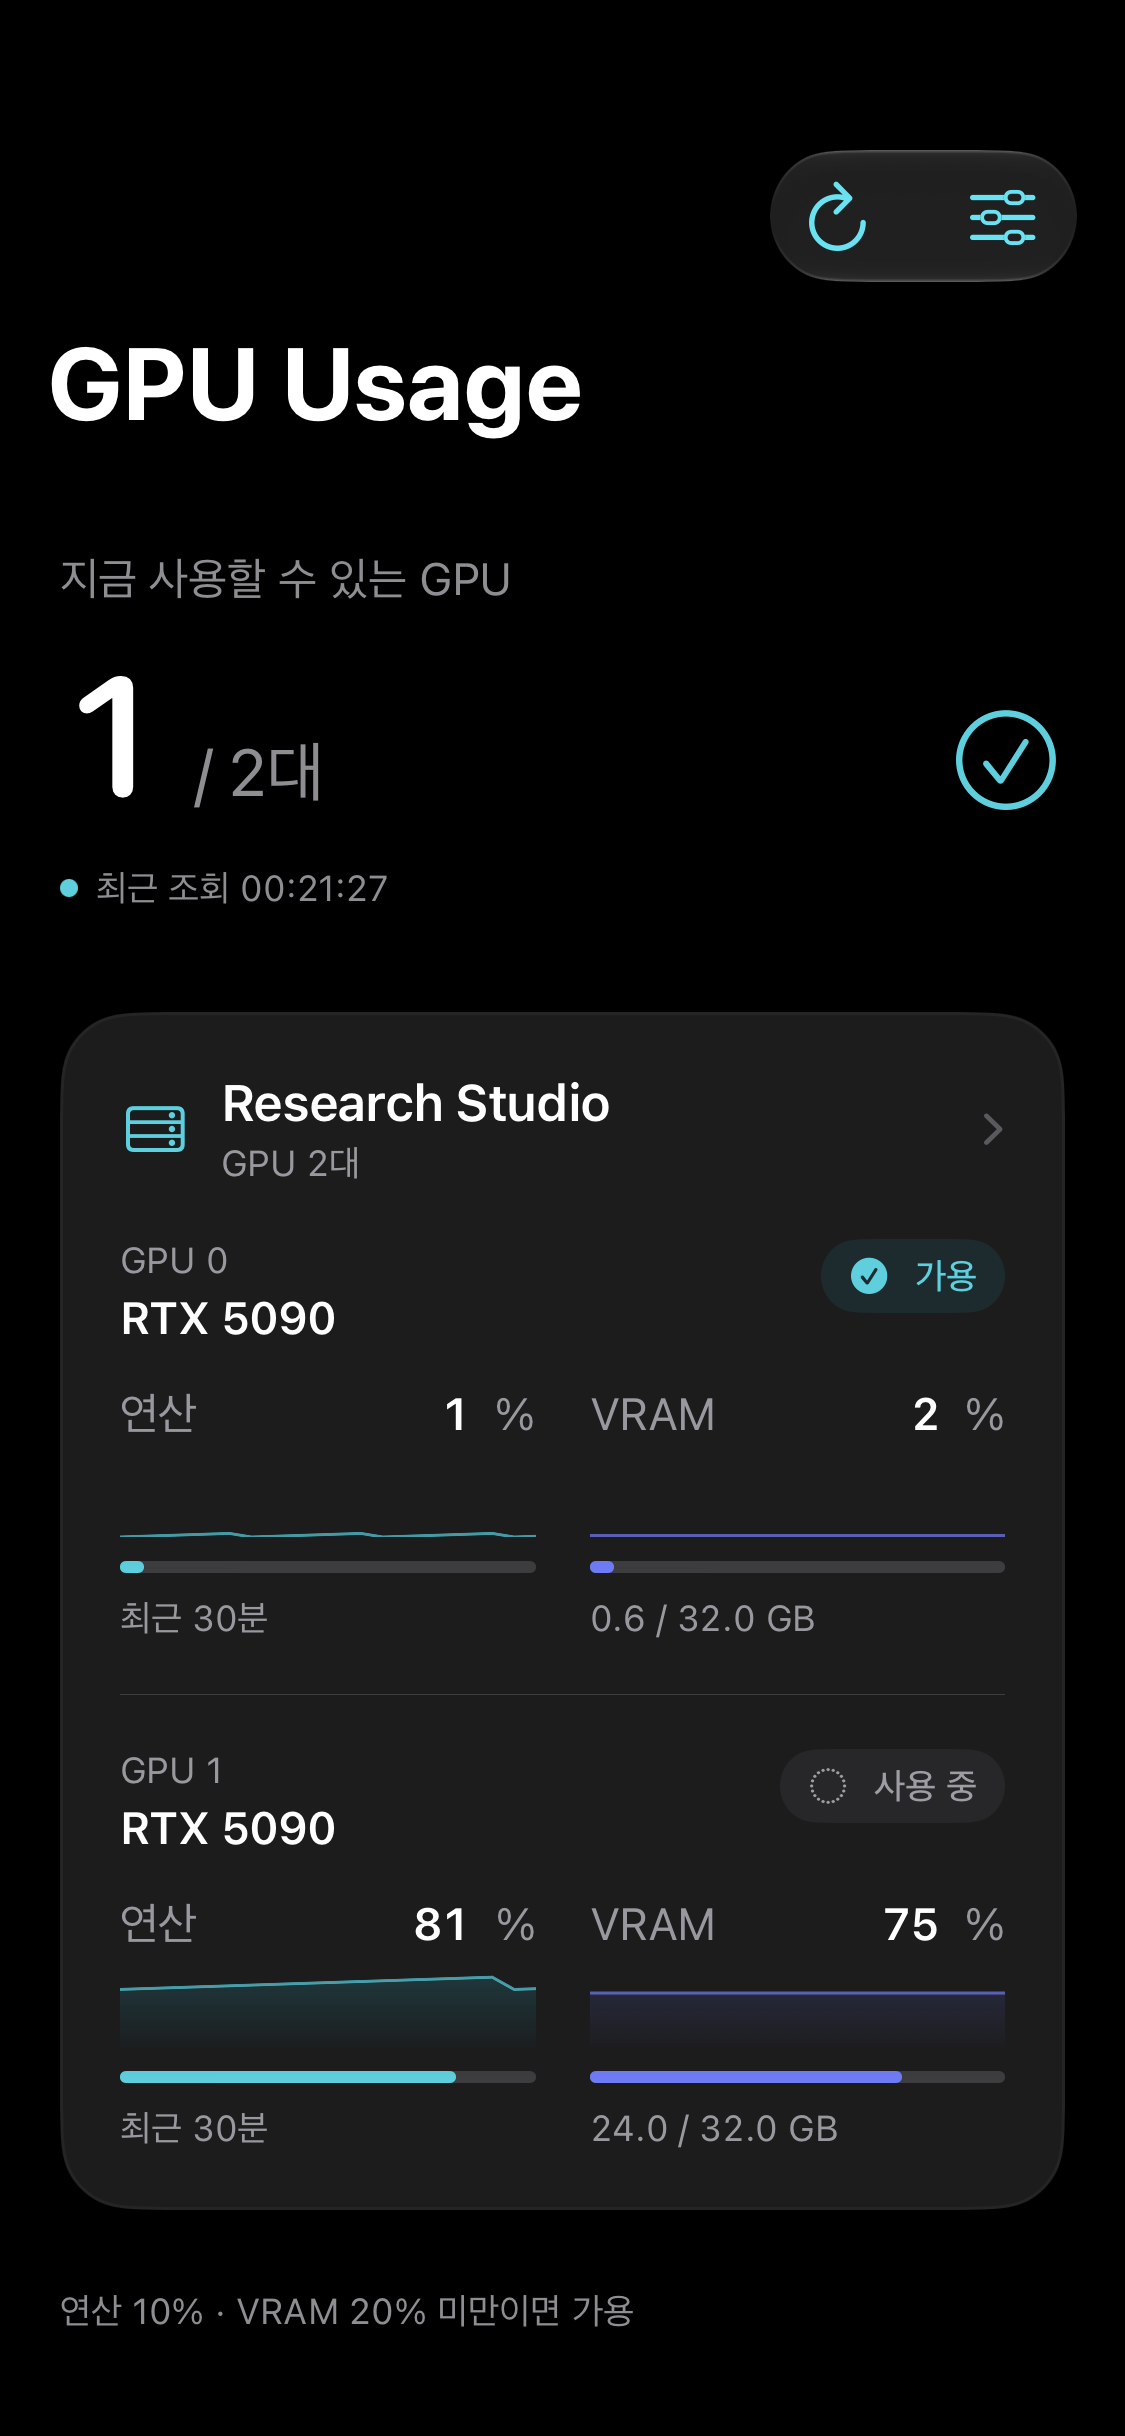
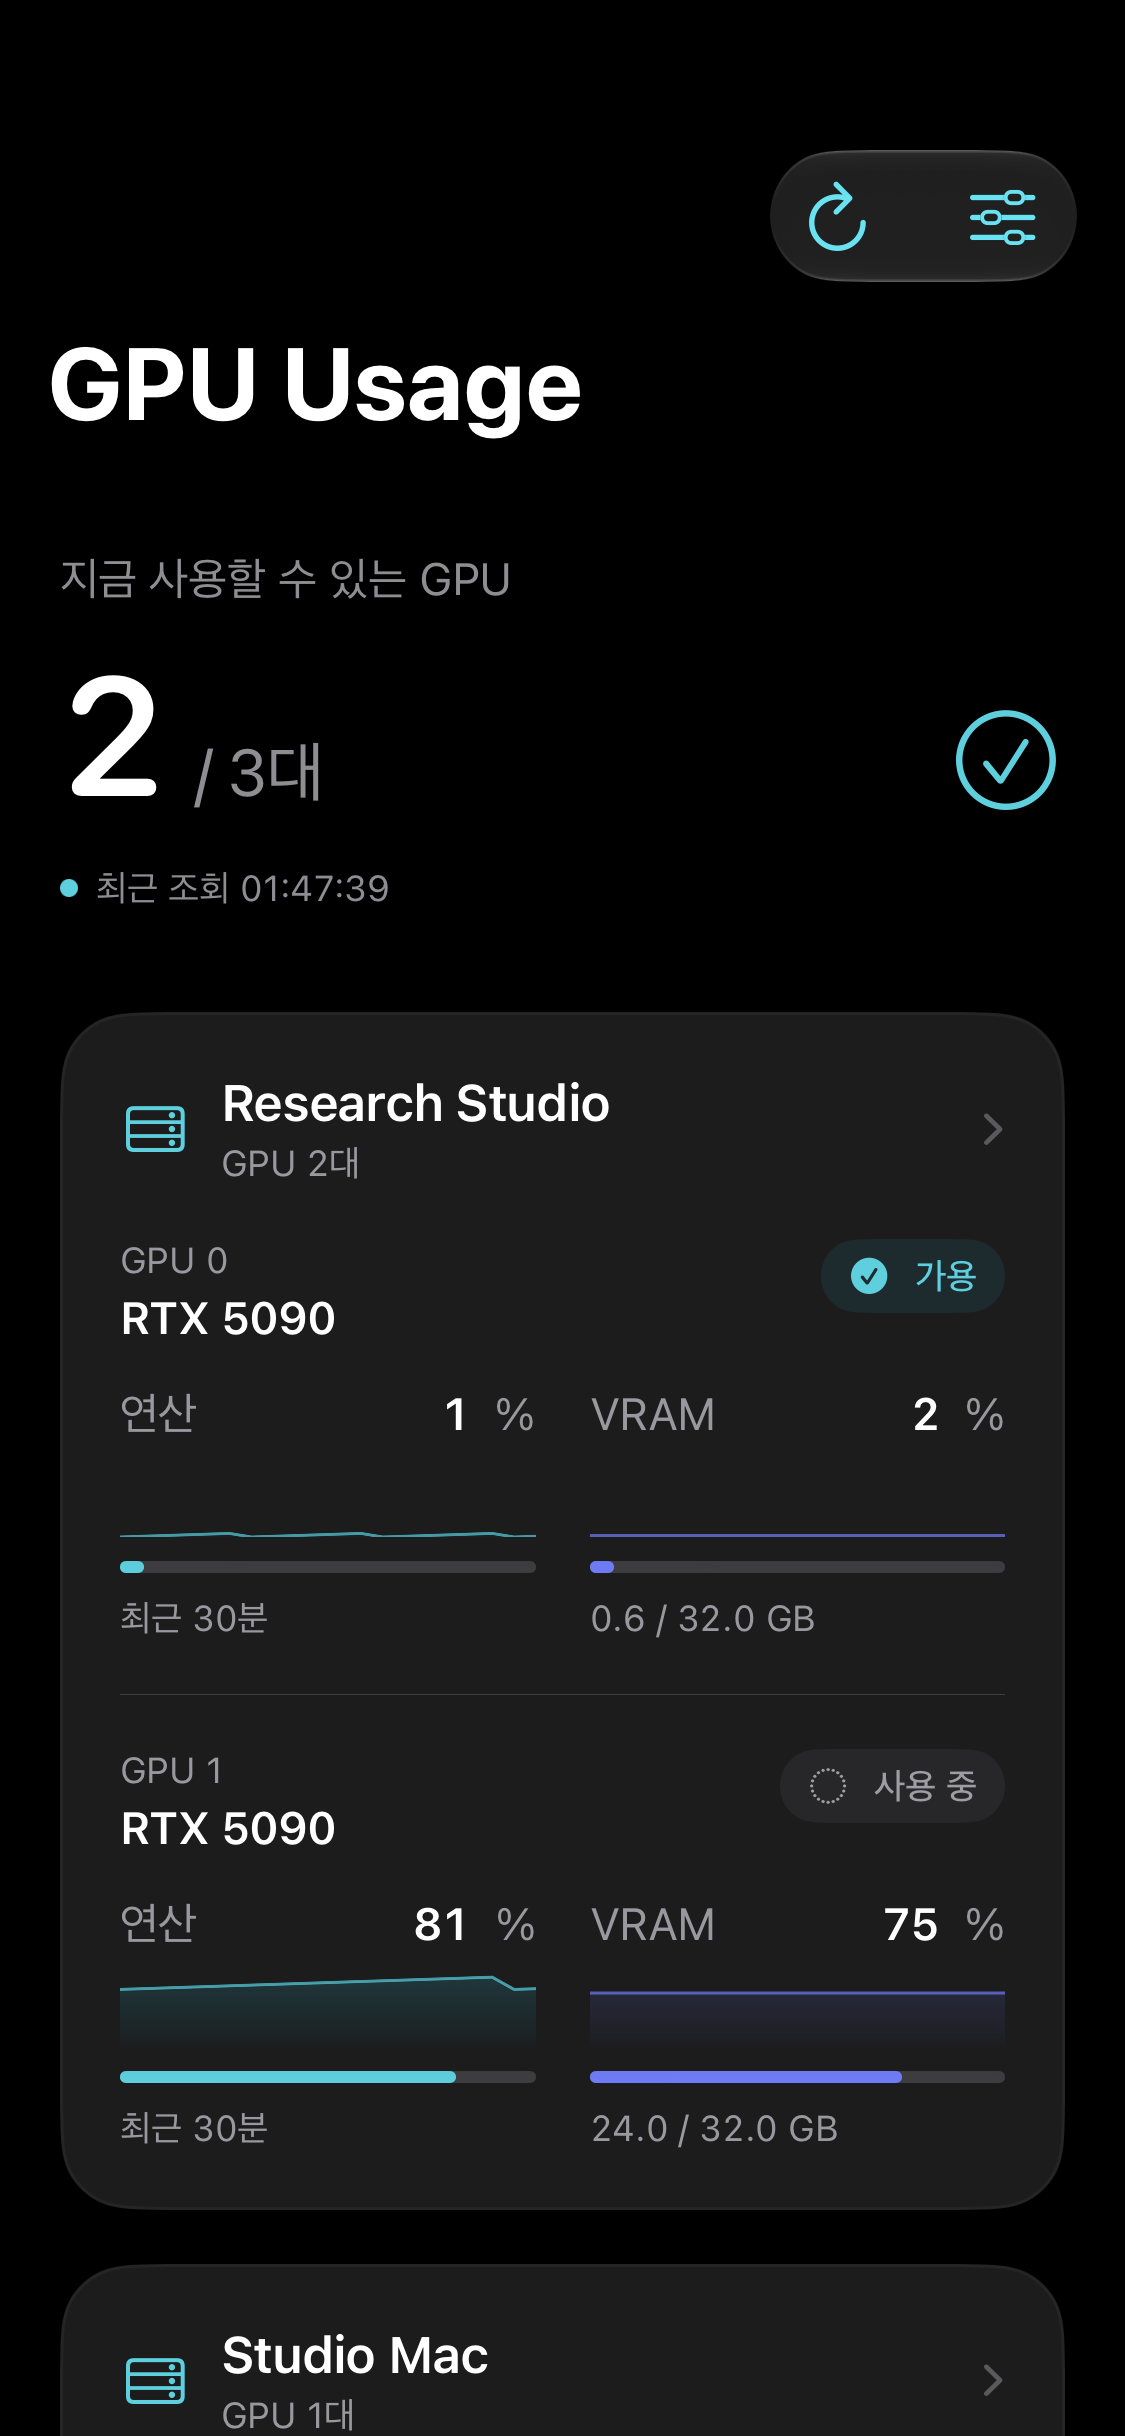
Document GPU Usage 2.1 iPad, Watch and Apple GPU support

diff --git a/gpu-usage/README.md b/gpu-usage/README.md
@@ -1,16 +1,18 @@
 # GPU Usage
 
-Your GPUs, everywhere. A small utility for researchers and developers, with native Mac and iPhone apps, a VS Code dashboard, and an agent-friendly CLI.
+Your GPUs, everywhere. A small utility for researchers and developers, with native Mac, iPhone and iPad apps, an Apple Watch companion, a VS Code dashboard, and an agent-friendly CLI.
 
 **Beta limitation:** Production iCloud setup is pending. Cross-device settings sync and iPhone-to-Mac Pro activation do not work yet. Manual server registration and viewing work independently on each device.
 
-[Download the current beta](https://github.com/saankim/myapps-releases/releases/tag/gpu-usage-v2.0.0) · [Privacy](PRIVACY.md)
+[Download the current beta](https://github.com/saankim/myapps-releases/releases/tag/gpu-usage-v2.1.0) · [Privacy](PRIVACY.md)
 
 ## Install
 
 **Mac:** Requires an Apple silicon Mac running macOS 26 or later. Unzip the release and move **GPU Usage.app** to **Applications**. Open it and use the menu-bar CPU icon. The app is signed with Developer ID and notarized by Apple.
 
-**iPhone:** Requires iOS 26 or later. The current version is an internal TestFlight beta; an invited Apple account is required. The public App Store listing is not yet available.
+**iPhone / iPad:** Requires iOS or iPadOS 26 or later. The current version is an internal TestFlight beta; an invited Apple account is required. The public App Store listing is not yet available.
+
+**Apple Watch:** Requires watchOS 26 or later and a paired iPhone with GPU Usage. Open the iPhone app first, then the Watch app. The Watch shows the latest iPhone readings and can request a refresh when the phone is reachable. It does not make SSH connections. Notification mirroring follows your iPhone and Watch notification settings. Companion transport and notification delivery still need confirmation on physical devices.
 
 **VS Code:** Install the `.vsix` file from the release using Extensions → Install from VSIX. Requires VS Code 1.138 or later on macOS. Open the GPU Usage view and keep the Mac app running. The extension also works in a remote workspace because it reads the local Mac app's snapshots.
 
@@ -26,15 +28,23 @@ If `~/.local/bin` is not on your PATH, use the full path or add it to your shell
 
 ## Connect
 
-Register a server in Settings using an SSH address, username and key or password. Mac SSH `Host` entries appear automatically, including included configuration files; wildcard entries and proxy/jump connections are excluded. iPhone supports unencrypted OpenSSH Ed25519 keys and SSH passwords. Confirm the server fingerprint against a trusted existing connection. Each device still needs a network route to the server.
+Register a server in Settings using an SSH address, username and key or password. Mac SSH `Host` entries appear automatically, including included configuration files; wildcard entries and proxy/jump connections are excluded. iPhone and iPad support unencrypted OpenSSH Ed25519 keys and SSH passwords. Confirm the server fingerprint against a trusted existing connection. Each device still needs a network route to the server.
 
 Settings sync uses the same iCloud account and iCloud Keychain. There is no QR setup, required Mac setup step on iPhone, remote helper, or push relay. Current beta deployment limitations are listed in the release notes.
+
+## Apple GPU and MPS
+
+An Apple silicon Mac running the menu-bar app adds itself automatically. It reads the whole Apple GPU through local driver counters, without SSH or a privileged helper. Remote Apple silicon Macs can also be queried over direct SSH. To view your local Mac from iPhone/iPad, configure an SSH address and credentials for that Mac and enable Remote Login yourself if desired; the app never enables it for you.
+
+GPU utilization includes Metal/MPS and other GPU users, including the desktop compositor. **Unified memory** means GPU driver allocation divided by the Mac's total physical memory. This is not dedicated VRAM or the memory used by one PyTorch model. The driver counter schema can change in a future macOS release; missing counters produce an error, never a fabricated zero.
+
+On macOS the process picker lists the connected user's processes. It cannot identify which of them uses MPS. Search by name or PID and select the process you want to watch. No remote agent or training-code instrumentation is needed.
 
 ## Monitor
 
 The dashboard separates compute usage and VRAM, with recent history and clear stale-data states. A GPU is available when both values are below your thresholds (default: compute 10%, VRAM 20%). Unreachable servers remain visible and can be disabled.
 
-The awake Mac polls at your chosen interval while its menu-bar app runs. iPhone polls while visible; background refresh happens only when iOS permits it. Background timing and notifications are not guaranteed. Job completion means the selected process disappeared, not that it succeeded.
+The awake Mac polls at your chosen interval while its menu-bar app runs. iPhone and iPad poll while visible; background refresh happens only when the operating system permits it. Apple Watch displays the latest phone snapshot and marks old results for rechecking. Background timing and notifications are not guaranteed. Job completion means the selected process disappeared, not that it succeeded.
 
 Viewing and settings sync are free. Pro adds local GPU-available and process-completion notifications and the CLI, at USD **1.99/month** or **19.99/year**, with Apple-localized storefront pricing. TestFlight purchases use Apple's test environment. Public subscriptions require App Review before sale.
 
@@ -44,7 +54,7 @@ gpu-usage --available=10,20 --json --watch=10
 gpu-usage --tsv research-server
 ```
 
-JSON watch mode emits one snapshot per line. Exit status: 0 success, 2 invalid input or connection failure, 3 Pro required. Credentials are never included in the output.
+JSON watch mode emits one snapshot per line. Exit status: 0 success, 2 invalid input or connection failure, 3 Pro required. Credentials are never included in the output. JSON adds `backend: "appleMetal"` for Apple GPUs. For compatibility, the TSV columns still use `vram_*` names; for an Apple GPU these carry the unified-memory driver allocation described above, in GiB.
 
 ## Interface preview
 
@@ -52,3 +62,6 @@ These captures use sample servers and GPU data.
 
 ![GPU Usage in light mode](dashboard-light.png)
 ![GPU Usage in dark mode](dashboard-dark.png)
+
+![iPad GPU dashboard](ipad-dashboard.png)
+![Apple Watch GPU dashboard](watch-dashboard.png)

diff --git a/gpu-usage/PRIVACY.md b/gpu-usage/PRIVACY.md
@@ -1,12 +1,18 @@
 # GPU Usage Privacy Policy
 
-Effective October 9, 2026. This policy covers GPU Usage for Mac and iPhone, the GPU Usage VS Code extension, and the GPU Usage CLI.
+Effective October 9, 2026. This policy covers GPU Usage for Mac, iPhone, iPad and Apple Watch, the GPU Usage VS Code extension, and the GPU Usage CLI.
 
 ## Your servers and readings
 
-GPU Usage connects directly to SSH servers you select. It reads NVIDIA GPU usage and, when you enable job monitoring, process identifiers, names and start identities. The app does not install a service on the server, change your jobs, or send those readings to a developer-operated backend.
+GPU Usage connects directly to SSH servers you select. It reads NVIDIA GPU usage or whole-device Apple GPU utilization and driver memory allocation and, when you enable job monitoring, process identifiers, names and start identities. The app does not install a service on the server, change your jobs, or send those readings to a developer-operated backend.
 
 The Mac app discovers explicit entries in your SSH configuration. You can disable or delete a server in Settings. Deleting a server removes its synced connection and watches; it does not change your SSH configuration or remote files. Removing a server also requests deletion of its app-managed Keychain credential when no other connection uses it. Credentials managed separately by your SSH configuration remain yours.
+
+The local Mac is discovered automatically and queried locally. For Apple GPU monitoring, process selection lists the connected user's processes; it does not attribute GPU use to a specific process.
+
+## Apple Watch
+
+The paired iPhone sends recent GPU readings, server display names, selected job names and monitoring status to the Watch using Apple WatchConnectivity. SSH addresses, passwords and keys are not sent to the Watch. The latest snapshot is cached on the Watch for offline viewing, with stale readings marked. The Watch does not contact GPU servers or a developer-operated backend.
 
 ## iCloud and Keychain
 
@@ -16,7 +22,7 @@ Settings are also stored locally. On Mac the settings file and current snapshot 
 
 ## Notifications and purchases
 
-Notifications are created on the device from successful observations. There is no developer-operated push relay. iOS determines when background checks are allowed. Notification text may include the server name and selected process name; control lock-screen previews in system settings.
+Notifications are created on the device from successful observations. There is no developer-operated push relay. iOS/iPadOS determine when background checks are allowed. Notification mirroring to the Watch follows Apple's device and notification settings. Notification text may include the server name and selected process name; control lock-screen previews in system settings.
 
 Apple processes subscriptions and payment details. GPU Usage receives a signed transaction proof to check access to Pro features; payment card details are not provided to the app. The proof is synchronized to your other devices through your private iCloud database.
 
